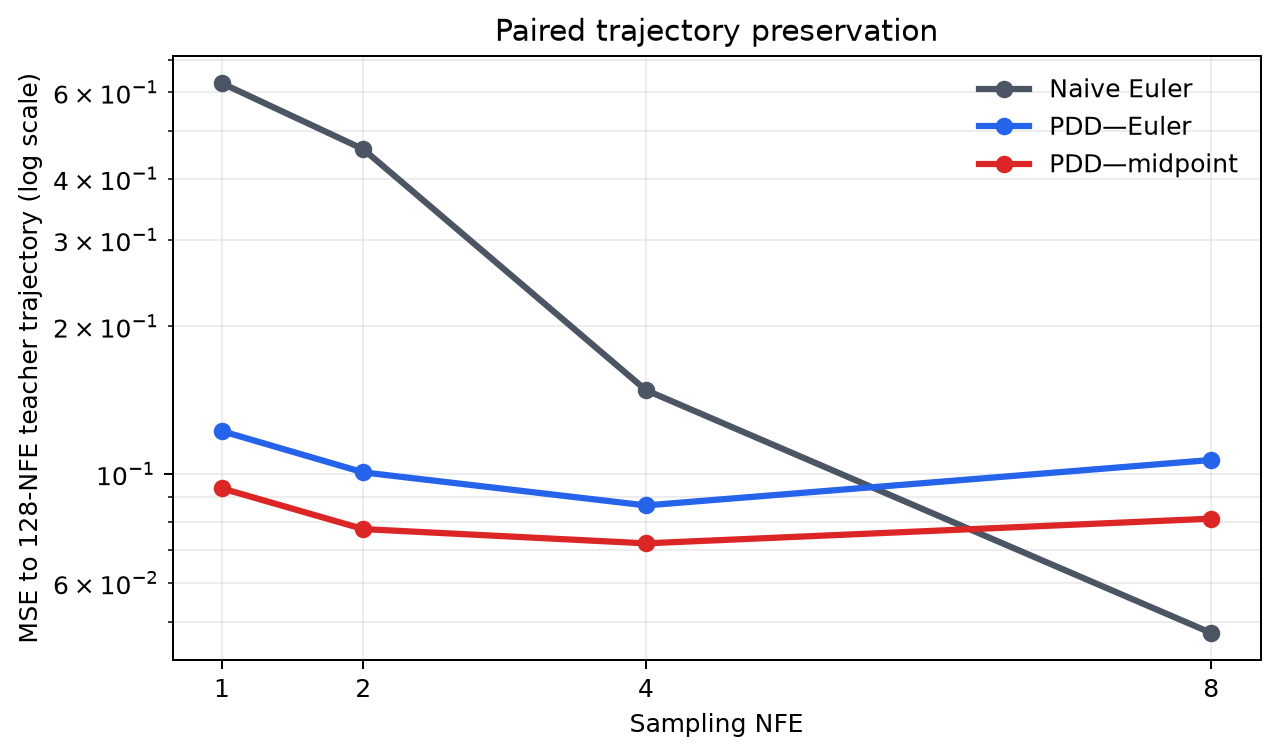
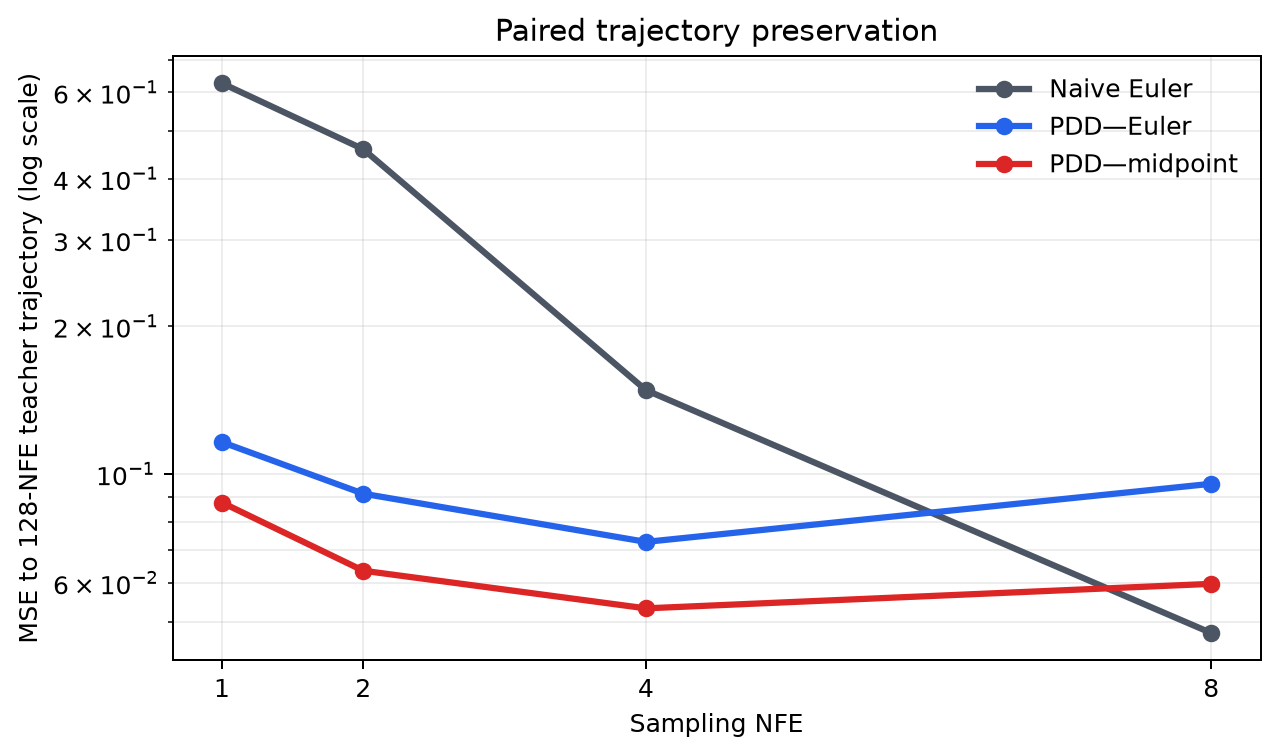
Publish PDD CIFAR-10 reproduction

Changed region(s): [[0.1526, 0.5476, 0.9765, 0.8214]]

diff --git a/reports/cifar10-pdd/report.md b/reports/cifar10-pdd/report.md
@@ -4,7 +4,7 @@ Diffusion image generators normally refine noise through many sequential network
 
 **Verdict — partially reproduced.** With enough training, the midpoint PDD reconstruction beat a matched naive large-step solver, midpoint targets beat Euler targets, and one model improved across 1, 2, 4, and 8 evaluations. The verdict is partial because this is a CIFAR-10 algorithmic substitution, not the paper's large ImageNet or video setting.
 
-**Scope.** We used `google/ddpm-cifar10-32`, 1,024 fixed noise seeds, public UofT CIFAR-10 images, and a 128-NFE midpoint teacher reference. The selected compact model has eight interval heads and trained for 80,000 updates; paper-length and EMA checks are supporting diagnostics.
+**Scope.** We used `google/ddpm-cifar10-32`, 1,024 fixed noise seeds, public UofT CIFAR-10 images, and a 128-NFE midpoint teacher reference. The selected compact model has eight interval heads and trained for 160,000 updates at learning rate `1e-4`; paper-length and EMA checks are supporting diagnostics.
 
 ![KID across sampling budgets](images/headline_kid.png)
 
@@ -22,15 +22,15 @@ The target was either one Euler evaluation or a midpoint update using two evalua
 
 ### 1. PDD improves few-evaluation fidelity
 
-Across two seeds at 1 NFE, midpoint PDD reduced mean KID × 1,000 from **409.06** for naive Euler to **275.32**. Paired trajectory MSE to the fine teacher dropped from **0.6265** to **0.0935**. KID is noisy with 1,024 images, but the large paired-error change makes the direction unambiguous.
+Across two seeds at 1 NFE, midpoint PDD reduced mean KID × 1,000 from **409.06** for naive Euler to **280.34**. Paired trajectory MSE to the fine teacher dropped from **0.6265** to **0.0875**. KID is noisy with 1,024 images, but the large paired-error change makes the direction unambiguous.
 
 ![Paired trajectory error](images/trajectory_error.png)
 
-At 8 NFE, PDD retained better mean KID (**108.49** versus **176.71**) while naive Euler had lower endpoint MSE (**0.0474** versus **0.0811**). This difference is informative: PDD's samples match real-image features better, but the coarse numerical solver more closely follows the chosen fine teacher trajectory at the largest tested budget.
+At 8 NFE, PDD retained better mean KID (**46.89** versus **176.71**) while naive Euler had lower endpoint MSE (**0.0474** versus **0.0597**). This difference is informative: PDD's samples match real-image features better, but the coarse numerical solver more closely follows the chosen fine teacher trajectory at the largest tested budget.
 
 ### 2. Midpoint targets outperform Euler
 
-The paper reports 1-NFE ImageNet FID of 2.69 for midpoint targets versus 2.73 for Euler. In the matched grid-8 reconstruction, midpoint reduced mean 1-NFE KID from **469.31** to **275.32** and trajectory MSE from **0.1223** to **0.0935**. Midpoint was better at every tested NFE.
+The paper reports 1-NFE ImageNet FID of 2.69 for midpoint targets versus 2.73 for Euler. In the matched grid-8 reconstruction, midpoint reduced mean 1-NFE KID from **472.04** to **280.34** and trajectory MSE from **0.1162** to **0.0875**. Midpoint was better at every tested NFE.
 
 ![Target method direction](images/target_direction.png)
 
@@ -40,7 +40,7 @@ The figure compares relative direction, not metric scale: below zero favors midp
 
 ![Feature diversity](images/diversity.png)
 
-Each midpoint checkpoint used block sizes 8, 4, 2, and 1 to produce 1, 2, 4, and 8 NFE samples. Mean KID improved monotonically from **275.32** to **108.49**, while feature diversity rose from **0.115** to **0.272** toward the fine reference's **0.361**. No retraining or runtime head selection was needed.
+Each midpoint checkpoint used block sizes 8, 4, 2, and 1 to produce 1, 2, 4, and 8 NFE samples. Mean KID improved monotonically from **280.34** to **46.89**, while feature diversity rose from **0.113** to **0.336** toward the fine reference's **0.361**. No retraining or runtime head selection was needed.
 
 ![Measured quality–latency frontier](images/latency_frontier.png)
 
@@ -48,12 +48,12 @@ Latency scaled from about 13 ms at 1 NFE to 97 ms at 8 NFE for a batch of 64. PD
 
 ## Robustness and diagnostics
 
-Training duration was the main boundary condition. Eight independent 8,000-update runs per target were uniformly poor; at 80,000 updates, two grid-16 seeds agreed closely and the smaller grid-8 model improved further. Reducing the learning rate from `5e-5` to `1e-5` or `1e-6` caused reproducible underfitting. Freezing the entire U-Net trunk changed no measured sample value for either target, showing that the repeated output heads carried the gain in this setup.
+Training duration was the main boundary condition. Eight independent 8,000-update runs per target were uniformly poor; 80,000-update grid-16 seeds agreed closely, and the selected 160,000-update grid-8 pair improved further. A 300,000-update grid-8 run gave a nearly identical frontier. EMA underfit at 80,000 updates and caught up—but stayed slightly worse—at 300,000. Reducing the learning rate to `1e-5` or `1e-6` also underfit. Freezing the U-Net trunk changed no measured value, showing that the repeated output heads carried the gain here.
 
 | Claim | Paper evidence | Observed here | Assessment |
 |---|---|---|---|
-| PDD beats naive few-step sampling | Strong large-model FID/quality | Mean 1-NFE KID 275.32 vs 409.06; MSE 0.0935 vs 0.6265 | Aligned |
-| Midpoint beats Euler | 2.69 vs 2.73 ImageNet FID | Mean 275.32 vs 469.31 KID × 1,000 | Aligned |
-| One model spans block sizes | Improving quality over 1/2/4/8 NFE | Mean KID 275.32 → 108.49; diversity 0.115 → 0.272 | Aligned |
+| PDD beats naive few-step sampling | Strong large-model FID/quality | Mean 1-NFE KID 280.34 vs 409.06; MSE 0.0875 vs 0.6265 | Aligned |
+| Midpoint beats Euler | 2.69 vs 2.73 ImageNet FID | Mean 280.34 vs 472.04 KID × 1,000 | Aligned |
+| One model spans block sizes | Improving quality over 1/2/4/8 NFE | Mean KID 280.34 → 46.89; diversity 0.113 → 0.336 | Aligned |
 
 No author code or checkpoint is available, and this compact teacher cannot validate 14B–22B video/audio quality. A full reproduction still needs the paper's SiT-XL/ImageNet setup, training scale, and media benchmarks. All formal runs used OpenResearch **Kubernetes** on **NVIDIA RTX PRO 6000 Blackwell** GPUs, peaking at **16 concurrent GPUs**; measured elapsed wall time is recorded in `autoresearch.json`.

diff --git a/README.md b/README.md
@@ -4,7 +4,7 @@
 
 This repository reconstructs the central algorithmic claims of [Parallel Decoding Distillation for Fast Image and Video Generation (arXiv:2607.26004)](https://arxiv.org/abs/2607.26004): a stop-gradient on-policy parallel decoder should beat naive large steps, midpoint targets should beat Euler targets, and one trained decoder should expose a useful 1/2/4/8-NFE trade-off.
 
-**Assessment: partially reproduced in this bounded CIFAR-10 setup.** Across two 80,000-update grid-8 seeds, midpoint PDD reduced 1-NFE KID × 1,000 to **275.32**, versus **409.06** for naive Euler and **469.31** for matched Euler-target PDD; paired trajectory MSE was **0.0935**, versus **0.6265** for the naive control. The paper's non-comparable ImageNet number likewise favors midpoint—FID **2.69** versus **2.73**. The same checkpoints improved to mean KID **108.49** at 8 NFE without retraining.
+**Assessment: partially reproduced in this bounded CIFAR-10 setup.** Across two 160,000-update grid-8 seeds, midpoint PDD reduced 1-NFE KID × 1,000 to **280.34**, versus **409.06** for naive Euler and **472.04** for matched Euler-target PDD; paired trajectory MSE was **0.0875**, versus **0.6265** for the naive control. The paper's non-comparable ImageNet number likewise favors midpoint—FID **2.69** versus **2.73**. The same checkpoints improved to mean KID **46.89** at 8 NFE without retraining.
 
 The deliberate substitution is a public `google/ddpm-cifar10-32` teacher and public UofT CIFAR-10 images instead of the paper's SiT-XL ImageNet and 14B–22B media models. Formal evidence used 1,024 fixed seeds, a 128-NFE midpoint reference, trajectory MSE, paired Inception features, bounded KID, diversity, and measured latency. Runs used OpenResearch Kubernetes on NVIDIA RTX PRO 6000 Blackwell GPUs, peaking at 16 concurrent GPUs.
 
@@ -25,7 +25,9 @@ Every experiment used the immutable exact command `bash run.sh`; hyperparameters
 | [Midpoint PDD, 8k seed 0](https://github.com/alphaXiv/parallel-decoding-distillation-for-fast-image-an/tree/orx/midpoint-pdd-seed-0) | Same decoder with midpoint teacher targets | `bash run.sh` | Worse than Euler and naive; replicated over 8 seeds | Kubernetes, 1× RTX PRO 6000 Blackwell |
 | [Euler PDD, 80k](https://github.com/alphaXiv/parallel-decoding-distillation-for-fast-image-an/tree/orx/euler-pdd-80000-steps-seed-0) | Tenfold convergence extension | `bash run.sh` | Beats naive at 4/8 NFE; worse at 1/2 | Kubernetes, 1× RTX PRO 6000 Blackwell |
 | [Midpoint PDD, 80k](https://github.com/alphaXiv/parallel-decoding-distillation-for-fast-image-an/tree/orx/midpoint-pdd-80000-steps-seed-0) | Matched tenfold convergence extension | `bash run.sh` | Beats naive KID at every NFE; replicated | Kubernetes, 1× RTX PRO 6000 Blackwell |
-| [Grid-8 midpoint](https://github.com/alphaXiv/parallel-decoding-distillation-for-fast-image-an/tree/orx/midpoint-pdd-grid-8-80000) | Halve the number of parallel interval heads | `bash run.sh` | Best 80k setting: mean KID 275.32 → 108.49 | Kubernetes, 1× RTX PRO 6000 Blackwell |
+| [Selected grid-8 Euler](https://github.com/alphaXiv/parallel-decoding-distillation-for-fast-image-an/tree/orx/euler-grid-8-high-lr-160000-steps) | 160k updates at `1e-4`; matched target control | `bash run.sh` | Two-seed mean KID 472.04 → 132.90 | Kubernetes, 1× RTX PRO 6000 Blackwell |
+| [Selected grid-8 midpoint](https://github.com/alphaXiv/parallel-decoding-distillation-for-fast-image-an/tree/orx/midpoint-grid-8-high-lr-160000-steps) | 160k updates at `1e-4`; selected reconstruction | `bash run.sh` | Two-seed mean KID 280.34 → 46.89 | Kubernetes, 1× RTX PRO 6000 Blackwell |
+| [Grid-8 midpoint, 300k](https://github.com/alphaXiv/parallel-decoding-distillation-for-fast-image-an/tree/orx/midpoint-grid-8-300000-steps) | Paper-length training robustness | `bash run.sh` | KID 279.17 → 47.41; no material gain over selected 160k model | Kubernetes, 1× RTX PRO 6000 Blackwell |
 | [Frozen-trunk midpoint](https://github.com/alphaXiv/parallel-decoding-distillation-for-fast-image-an/tree/orx/midpoint-pdd-80000-frozen-trunk) | Isolate output-head learning from trunk drift | `bash run.sh` | Numerically identical to full training | Kubernetes, 1× RTX PRO 6000 Blackwell |
 
 ## Implementation map
